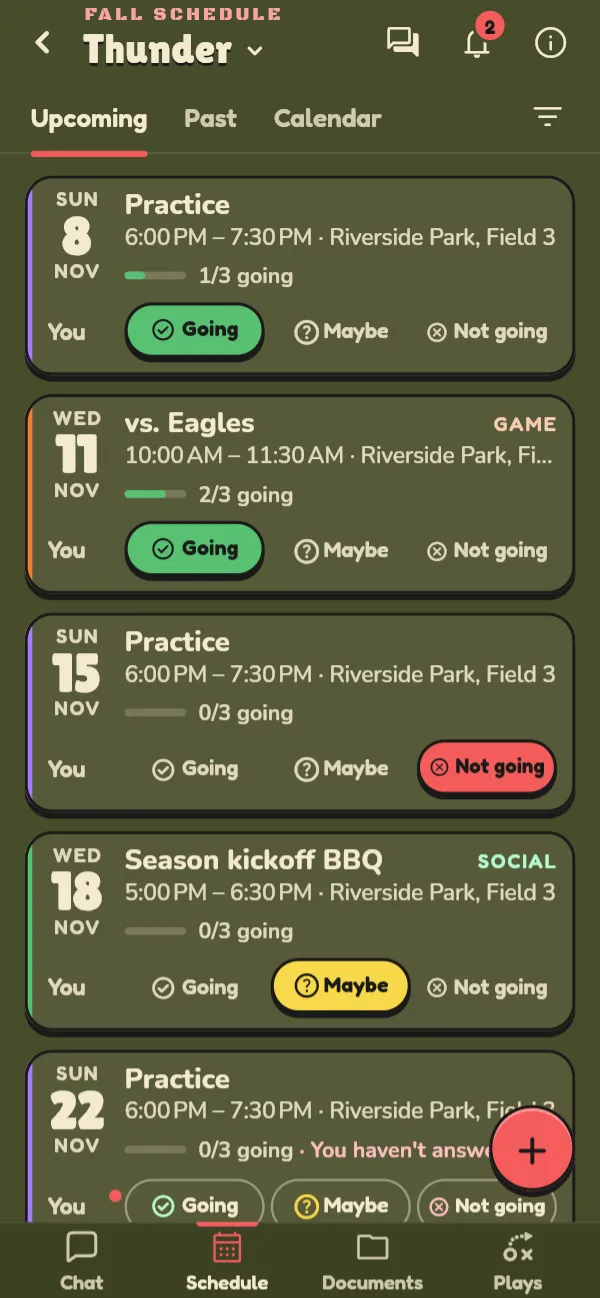
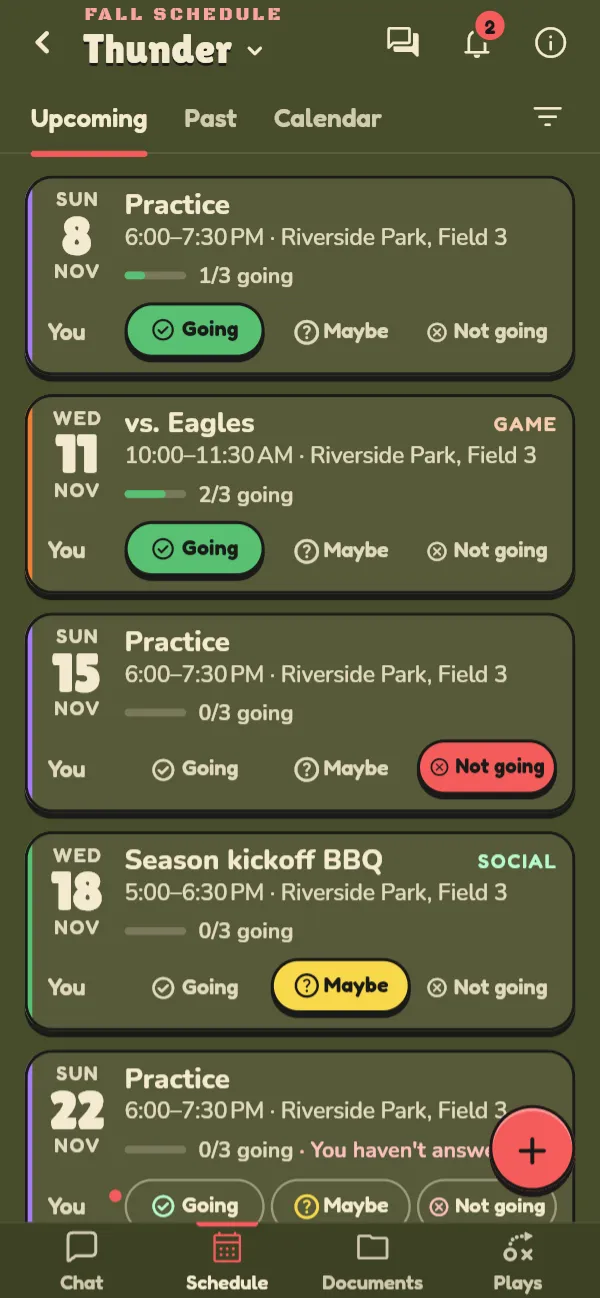
The landing page's screenshots, the link preview image, and the Google Play phone screenshots are retaken from the current app
Every website screenshot is a new capture in Open Field against freshly
seeded emulators: Thunder's schedule in all five schemes, Saturday Run
Club's group chat with only messages and its small photo, the Eagles
game's RSVPs, the tournament poll, documents, All my teams, a guardian's
practice with Luke and Alex on their own rows, both Dues views, and
Thunder's Relay home on the whiteboard. The alt texts and the README's
table say what each one now shows. og.jpg is redrawn from the new
schedule shots with the Stencil Crest and "For Groups and Sports Teams".
The six Play phone screenshots are in Army green, with the run club's
chat first. ROADMAP task 354 is done.

diff --git a/website/index.html b/website/index.html
@@ -227,27 +227,27 @@
           <li class="tile">
             <h3>Group chat</h3>
             <p>Photos, replies, mentions, and pinned announcements.</p>
-            <div class="shot"><div class="phone"><img src="/images/group-chat-navy.webp" width="600" height="1298" loading="lazy" decoding="async" alt="A group's chat in the Navy color scheme: messages from several people and a small photo."><span class="tag" data-s="navy" aria-hidden="true">Navy</span></div></div>
+            <div class="shot"><div class="phone"><img src="/images/group-chat-navy.webp" width="600" height="1298" loading="lazy" decoding="async" alt="Saturday Run Club's group chat in the Navy color scheme: Monica Geller's reply to Phil Dunphy that Rachel is pacing a 10-minute mile, Rachel Green's small photo of a sunrise from the bridge with a like and two hearts, your own message in a coral bubble, marked Sent, and Chandler Bing asking about coffee after."><span class="tag" data-s="navy" aria-hidden="true">Navy</span></div></div>
           </li>
           <li class="tile">
             <h3>Games and RSVPs</h3>
             <p>Going, Maybe, or Not going in one tap.</p>
-            <div class="shot"><div class="phone"><img src="/images/event-skyblue.webp" width="600" height="1298" loading="lazy" decoding="async" alt="Thunder's home game against the Eagles in the Light blue color scheme: the time, the field with directions, reminders, assignments, and who's going: 2 of 3 players, each with who answered."><span class="tag" data-s="skyblue" aria-hidden="true">Light blue</span></div></div>
+            <div class="shot"><div class="phone"><img src="/images/event-skyblue.webp" width="600" height="1298" loading="lazy" decoding="async" alt="Thunder's home game against the Eagles in the Light blue color scheme: the time, the field with directions, reminders, assignments, and who's going: 2 going, 1 maybe, 0 not going, and 0 with no reply, 2 of 3 players going, with Jim and Andy going and Pam a maybe answered by the coach."><span class="tag" data-s="skyblue" aria-hidden="true">Light blue</span></div></div>
           </li>
           <li class="tile">
             <h3>Polls</h3>
             <p>Settle it without forty replies.</p>
-            <div class="shot"><div class="phone"><img src="/images/poll-dark.webp" width="600" height="1298" loading="lazy" decoding="async" alt="A poll in Rally Possums' chat in the Dark color scheme: which tournament weekend works, with the votes for each weekend and the replies under it."><span class="tag" data-s="dark" aria-hidden="true">Dark</span></div></div>
+            <div class="shot"><div class="phone"><img src="/images/poll-dark.webp" width="600" height="1298" loading="lazy" decoding="async" alt="Rachel's poll in Rally Possums' chat in the Dark color scheme: which tournament weekend works for your family, where 4 people voted, 3 for Nov 7–8, 2 for Nov 14–15, and none for Dec 5–6, then replies from Monica and Chandler and Rachel's own message settling on Nov 7–8."><span class="tag" data-s="dark" aria-hidden="true">Dark</span></div></div>
           </li>
           <li class="tile">
             <h3>Documents</h3>
             <p>Lineups, rules, and waivers, one tap away.</p>
-            <div class="shot"><div class="phone"><img src="/images/documents-navy.webp" width="600" height="1298" loading="lazy" decoding="async" alt="Thunder's documents in the Navy color scheme: a pinned lineup and league rules, a practice plan, a link to field directions, and a player waiver."><span class="tag" data-s="navy" aria-hidden="true">Navy</span></div></div>
+            <div class="shot"><div class="phone"><img src="/images/documents-navy.webp" width="600" height="1298" loading="lazy" decoding="async" alt="Thunder's documents in the Navy color scheme: every photo shared in the chat, then a pinned Saturday lineup and league rules, a practice plan, a link to field directions, and a player waiver, each with its size or link, who added it, and when."><span class="tag" data-s="navy" aria-hidden="true">Navy</span></div></div>
           </li>
           <li class="tile">
             <h3>All my teams</h3>
             <p>Every team you're on, in one schedule.</p>
-            <div class="shot"><div class="phone"><img src="/images/allteams-skyblue.webp" width="600" height="1298" loading="lazy" decoding="async" alt="All my teams in the Light blue color scheme: practices and games from Cyclone, Thunder, and Rally Possums in one schedule, with Going, Maybe, and Not going for each player."><span class="tag" data-s="skyblue" aria-hidden="true">Light blue</span></div></div>
+            <div class="shot"><div class="phone"><img src="/images/allteams-skyblue.webp" width="600" height="1298" loading="lazy" decoding="async" alt="All my teams in the Light blue color scheme: practices and games from Cyclone, Thunder, and Rally Possums in one schedule, each card naming its team and who it's for, with a row for each player: Luke going to Cyclone's practice, where Alex hasn't answered yet, Haley going to Rally Possums' game at the Bulls, and no answers yet from Luke or Alex for Cyclone's game against the Comets."><span class="tag" data-s="skyblue" aria-hidden="true">Light blue</span></div></div>
           </li>
           <li class="tile more">
             <h3>And more</h3>
@@ -282,8 +282,8 @@
           </ul>
         </div>
         <div class="spot-media pair">
-          <div class="phone"><img src="/images/dues-army.webp" width="600" height="1298" loading="lazy" decoding="async" alt="A team admin's Dues screen in the Army green color scheme: a tournament fee and uniforms, each with how many have paid and what's still owed, and How to pay with the team's Venmo and Cash App."><span class="tag" data-s="army" aria-hidden="true">Army green</span></div>
-          <div class="phone"><img src="/images/dues-mine-light.webp" width="600" height="1298" loading="lazy" decoding="async" alt="What you owe in the Light color scheme: a guardian's dues for Luke and Alex, each marked Owes or Paid, $90 owed in all, and How to pay with the team's Venmo and Cash App."><span class="tag" data-s="light" aria-hidden="true">Light</span></div>
+          <div class="phone"><img src="/images/dues-army.webp" width="600" height="1298" loading="lazy" decoding="async" alt="A team admin's Dues screen in the Army green color scheme: a $30 tournament fee, 1 of 2 paid with $30 still owed, and $45 uniforms, 2 of 3 paid with $45 still owed, then How to pay with the team's Venmo and Cash App."><span class="tag" data-s="army" aria-hidden="true">Army green</span></div>
+          <div class="phone"><img src="/images/dues-mine-light.webp" width="600" height="1298" loading="lazy" decoding="async" alt="What you owe in the Light color scheme: a guardian's dues for Luke and Alex, $90 owed in all, with Luke's fall league fee and team photos and Alex's team photos marked Owes and Alex's fall league fee marked Paid, then How to pay with the team's Venmo and Cash App."><span class="tag" data-s="light" aria-hidden="true">Light</span></div>
         </div>
       </div>
     </section>
@@ -301,7 +301,7 @@
           </ul>
         </div>
         <div class="spot-media">
-          <div class="phone"><img src="/images/youth-light.webp" width="600" height="1298" loading="lazy" decoding="async" alt="A practice in the Light color scheme, answered by a guardian: Going, Maybe, or Not going for Luke and for Alex, each on their own row, then who's going."><span class="tag" data-s="light" aria-hidden="true">Light</span></div>
+          <div class="phone"><img src="/images/youth-light.webp" width="600" height="1298" loading="lazy" decoding="async" alt="Cyclone's practice in the Light color scheme, answered by a guardian: Luke and Alex each on their own row of Going, Maybe, and Not going, with Luke going and Alex still to answer, then who's going: 1 going, 0 maybe, 1 not going, and 2 with no reply, 1 of 4 players going."><span class="tag" data-s="light" aria-hidden="true">Light</span></div>
         </div>
       </div>
     </section>
@@ -321,7 +321,7 @@
           </ul>
         </div>
         <div class="spot-media">
-          <div class="phone"><img src="/images/whiteboard-army.webp" width="600" height="1298" loading="lazy" decoding="async" alt="The coach's whiteboard in the Army green color scheme: a relay home from right field on a baseball diamond, with the throws drawn in, at step 2 of 2, with a play button, Post to chat, and Save as GIF."><span class="tag" data-s="army" aria-hidden="true">Army green</span></div>
+          <div class="phone"><img src="/images/whiteboard-army.webp" width="600" height="1298" loading="lazy" decoding="async" alt="Thunder's play Relay home on the coach's whiteboard in the Army green color scheme: the throws drawn in on the diamond, from right field to the second baseman as the relay, to the first baseman as the cutoff, and home, at step 2 of 2, with a play button, Post to chat, and Save as GIF."><span class="tag" data-s="army" aria-hidden="true">Army green</span></div>
         </div>
       </div>
     </section>

diff --git a/docs/ROADMAP.md b/docs/ROADMAP.md
@@ -9,7 +9,7 @@ Every task and feature for Battleplan, in one numbered list, in the order they s
 - Feature IDs (AUTH-1, CHAT-6, …) point to SPEC §6. The details live there; this file is the order.
 - Milestones M0 to M8 each ended working on iOS, Android, and web, with rules tests updated (SPEC §9). Go-live then runs in six phases, web first (below). Until Phase 4 the native apps keep building and passing tests, but don't ship.
 
-Last updated: 2026-11-06. The landing page and its link preview image say it's for groups and sports teams, its Team chat tile is now Group chat, and Apple's App Store badge is on the website and the web app's invite page (task 353). Guardians answer for each of their players on that player's own RSVP row, in the app and from an RSVP email; the All my players shortcut is gone (task 358). The Stencil Crest is the new app icon and brand mark (task 356). The website's landing page is redone in Open Field, with a picker for all five color schemes, fewer words, new screenshots, and structured data and `llms.txt` for search and AI (task 351). Dues are built: admins track who owes and who paid for uniforms and fees, and share how to pay person to person (task 350). Open Field, one look in five color schemes, each person's own per team, with team RSVPs for players only and a color for your icon, is being built (tasks 340 to 349): the schemes, both pickers, the header, tab bars, Teams and Profile, the schedule, the event screen, chat, settings and the other screens, players-only RSVPs, and your icon color are done (tasks 340 to 348). Before that, 2026-10-25: Battleplan 1.1, Gumdrop Pop, is built for the web: three themes, team colors in the backgrounds, and the website to match (tasks 292 to 297); it waits for Release to prod (task 298), and iOS 1.1 is held back (task 299). Before that, 2026-10-17: Sign in with Apple is built, and Firebase has Apple's key in dev and prod; prod shows it after the next Release to prod (tasks 107, 109, 291). Before that, 2026-10-15, after checking every open task against the code and the live projects; a few were done and are now checked off (tasks 120 and 199). Since 2026-10-13: release workflows (tasks 230, 231), the owner's changes from trying the app (tasks 232 to 237), and the brand mark (task 238). Before that: The website and web app are live on prod at https://getbattleplan.app (Phase 1 tasks 111, 114 to 118, 121, 134, 187). M5 (Polls), M6 (Schedule), M7 (Documents), and M8 (God admin panel) are built, and the website is live on dev with the web app at /app. The first three v1.1 tasks are built: mentions, pins, and announcements; roster details and contact sharing; and answering for all my players with each player's RSVP history (tasks 135 to 137). Teams are now one type with players on every team, claims, and admin approval (tasks 181 to 186), and coaches can keep player details such as date of birth (tasks 216 to 218). The old M9 and Launch sections are replaced by six go-live phases: the website and web app first, then GDPR, backups, and security, then Sign in with Apple, the App Store, Google Play, and Facebook sign-in, each in its own phase (D60).
+Last updated: 2026-11-06. The landing page's screenshots, its link preview image, and the Play phone screenshots are retaken in Open Field (task 354). The landing page and its link preview image say it's for groups and sports teams, its Team chat tile is now Group chat, and Apple's App Store badge is on the website and the web app's invite page (task 353). Guardians answer for each of their players on that player's own RSVP row, in the app and from an RSVP email; the All my players shortcut is gone (task 358). The Stencil Crest is the new app icon and brand mark (task 356). The website's landing page is redone in Open Field, with a picker for all five color schemes, fewer words, new screenshots, and structured data and `llms.txt` for search and AI (task 351). Dues are built: admins track who owes and who paid for uniforms and fees, and share how to pay person to person (task 350). Open Field, one look in five color schemes, each person's own per team, with team RSVPs for players only and a color for your icon, is being built (tasks 340 to 349): the schemes, both pickers, the header, tab bars, Teams and Profile, the schedule, the event screen, chat, settings and the other screens, players-only RSVPs, and your icon color are done (tasks 340 to 348). Before that, 2026-10-25: Battleplan 1.1, Gumdrop Pop, is built for the web: three themes, team colors in the backgrounds, and the website to match (tasks 292 to 297); it waits for Release to prod (task 298), and iOS 1.1 is held back (task 299). Before that, 2026-10-17: Sign in with Apple is built, and Firebase has Apple's key in dev and prod; prod shows it after the next Release to prod (tasks 107, 109, 291). Before that, 2026-10-15, after checking every open task against the code and the live projects; a few were done and are now checked off (tasks 120 and 199). Since 2026-10-13: release workflows (tasks 230, 231), the owner's changes from trying the app (tasks 232 to 237), and the brand mark (task 238). Before that: The website and web app are live on prod at https://getbattleplan.app (Phase 1 tasks 111, 114 to 118, 121, 134, 187). M5 (Polls), M6 (Schedule), M7 (Documents), and M8 (God admin panel) are built, and the website is live on dev with the web app at /app. The first three v1.1 tasks are built: mentions, pins, and announcements; roster details and contact sharing; and answering for all my players with each player's RSVP history (tasks 135 to 137). Teams are now one type with players on every team, claims, and admin approval (tasks 181 to 186), and coaches can keep player details such as date of birth (tasks 216 to 218). The old M9 and Launch sections are replaced by six go-live phases: the website and web app first, then GDPR, backups, and security, then Sign in with Apple, the App Store, Google Play, and Facebook sign-in, each in its own phase (D60).
 
 ---
 
@@ -325,7 +325,7 @@ The owner's request (2026-10-25): Gumdrop Pop Navy as the default look, named Gu
 298. ✅ 👤 **Jared:** Run **Release to prod** once 1.1 is pushed and CI passes, to put the web app and the website on `getbattleplan.app`. *Run again with each release since, most recently on 2026-11-06.*
 299. ✅ iOS 1.1 follows 1.0's approval (owner's request 2026-10-26: "The latest version of the app should go to iPhone shortly after 1.0 is approved"). *Released on the App Store on 2026-11-05: built by **Release iOS** on 2026-11-04 from `3d84c33`, in Gumdrop Army, with screenshots in Gumdrop Army in `store/app-store/` and the What's New and description in `git show 85053f7:docs/STORE-LISTING.md`. It has none of tasks 340 to 351.*
 352. iOS 1.2: Open Field, icon colors, players-only RSVPs, and Dues (tasks 340 to 351). *Version 1.2.0 in pubspec.yaml since 2026-11-06, since App Store Connect takes no more 1.1.0 builds; [STORE-LISTING.md](STORE-LISTING.md) has 1.2's What's New, the description with Dues, and the Dues review note; the privacy manifest declares Other Financial Info for Dues. Still to do: retake `store/app-store/` in Open Field (STORE-LISTING.md, Screenshots), and give the App Review demo team a sample due (`tools/seed/demo-data.ts`). Then 👤 **Jared:** run **Release iOS**; in App Store Connect add version 1.2, pick the build, paste What's New, the description, and the review notes, replace the screenshots, change App Privacy as [STORE-PRIVACY.md](STORE-PRIVACY.md) says under "Dues: what to change in the consoles", and submit it for review. Once 1.2 is out, take "Dues and the new color schemes come to the iPhone app in its next update" off the landing page's FAQ (its text and its JSON-LD), `support.html`, and `llms.txt`.*
-354. Retake the landing page's screenshots once the app fixes of 2026-11-06 land ([website/README.md](../website/README.md), "Screenshots"), `whiteboard-army.webp` first: it still shows the old sample play, a baseball diamond under Cyclone (a soccer team) with its title cut to "Relay home fro…". The seed now makes it Thunder's play, Relay home (`/g/thunder/plays/thunder-relay-home`).
+354. ✅ Retake the landing page's screenshots once the app fixes of 2026-11-06 land ([website/README.md](../website/README.md), "Screenshots"), `whiteboard-army.webp` first: it still shows the old sample play, a baseball diamond under Cyclone (a soccer team) with its title cut to "Relay home fro…". The seed now makes it Thunder's play, Relay home (`/g/thunder/plays/thunder-relay-home`). *Retaken 2026-11-06 from the app as of the Stencil Crest, each player's own RSVP row, and the group Saturday Run Club, against freshly seeded emulators: all fourteen of the landing page's screenshots (Thunder's schedule as Jim in all five schemes, Saturday Run Club's group chat with only messages and its small photo, the Eagles game's RSVPs, the tournament poll, documents, All my teams, a guardian's practice with Luke and Alex on their own rows, both Dues views, and Thunder's Relay home on the whiteboard, its title in full), with every alt text and the README's table to match; the link-preview image `og.jpg` from the new schedule shots, with the Stencil Crest and "For Groups and Sports Teams"; and the six Google Play phone screenshots in Open Field's Army green, with the run club's chat first ([STORE-LISTING-PLAY.md](STORE-LISTING-PLAY.md)). The App Store set is still task 352's.*
 355. 👤 **Jared:** Tell everyone about the Privacy Policy and Terms update for Dues (2026-11-06): in the Admin panel, turn on **Announcement banner** (Show a banner to everyone) with text such as "We updated our Privacy Policy and Terms for Dues: getbattleplan.app/privacy", severity Info, ending in 30 days (SPEC §6.11, the policy's "Changes to this policy"). Dues collect something new, so the policy promises to say so in the app or by email. The Terms change only spells out that Battleplan isn't part of payments between members and that deleting a team erases its dues; it takes away no one's rights, so it doesn't need the Terms' 14 days.
 
 ## Go-live in six phases
@@ -475,7 +475,7 @@ New fixed cost: the Google Play Console, $25 once.
 212. Verify App Links on prod: `assetlinks.json` on `getbattleplan.app` with the upload and Play App Signing fingerprints, then check `/join/`, `/activate`, `/g/`, and `/app/` open the app on a phone (task 50). *Where each fingerprint comes from is in DEVELOPMENT.md (App Links); the file waits for the upload key and the first Play upload, and `tools/build_hosting.sh` warns until it's there.*
 289. Answer buttons on the Android app's event notifications: Going, Maybe, and Not going, answered in the background (SCHED-14, ARCH §6.15).
 128. 👤 **Jared:** Run the Google Play closed test: 12+ testers opted in for 14 days in a row, then request production access. *Moved from Launch.*
-213. Google Play listing: phone and tablet screenshots, description, the Data safety form (LEGAL-4), the content rating, the target audience (adults), the review demo account, and 👤 **Jared:** EU trader status in the Play Console. *Split from tasks 129 to 132. Drafted 2026-10-25: [STORE-LISTING-PLAY.md](STORE-LISTING-PLAY.md) has the name, short and full descriptions, store settings, and every App content answer (app access, ads, content rating, target audience, Data safety, government, financial, health, account deletion), and `store/google-play/` the 512 px icon and the 1024 × 500 feature graphic. The six phone screenshots (1080 × 1920, Gumdrop Pop Dark) are in `store/google-play/phone/`. Still to do: 👤 pasting it all in.*
+213. Google Play listing: phone and tablet screenshots, description, the Data safety form (LEGAL-4), the content rating, the target audience (adults), the review demo account, and 👤 **Jared:** EU trader status in the Play Console. *Split from tasks 129 to 132. Drafted 2026-10-25: [STORE-LISTING-PLAY.md](STORE-LISTING-PLAY.md) has the name, short and full descriptions, store settings, and every App content answer (app access, ads, content rating, target audience, Data safety, government, financial, health, account deletion), and `store/google-play/` the 512 px icon and the 1024 × 500 feature graphic. The six phone screenshots (1080 × 1920, Open Field's Army green since 2026-11-06, task 354) are in `store/google-play/phone/`. Still to do: 👤 pasting it all in.*
 214. Add the Android build to the prod release workflow, submit to Google Play, enforce Play Integrity in App Check, and turn on the Google Play badge on the website and the `/join` page. *Split from task 133. 2026-10-25: **Release Android** (Actions tab) builds prod and uploads it to internal testing, closed testing, or production as a draft; it needs the Play service account's `PLAY_SERVICE_ACCOUNT_JSON` secret (👤 Jared creates the account). The Android app now leaves out Buy Jared a coffee, like the iPhone app, so Play needs no billing review.*
 
 **Phase 5 is done when** the app is on Google Play. From here on, the parity rule covers all three platforms.

diff --git a/website/README.md b/website/README.md
@@ -84,21 +84,21 @@ The screenshots show the app with the seeded sample teams (Thunder, Cyclone, and
 | Image | Scheme | Signed in as | Screen |
 |---|---|---|---|
 | `schedule-army`, `-light`, `-dark`, `-navy`, `-skyblue` (hero) | all five | `jim@example.com` | Thunder's schedule as a player: their own Going, Maybe, and Not going on the cards and a practice still to answer, the same screen in each scheme |
-| `group-chat-navy` | Navy | a member of the group | A group's chat: messages from several people and a small photo only, with no event cards or polls in view |
-| `event-skyblue` | Light blue | `coach@example.com` | Thunder's game against the Eagles, with the RSVPs |
-| `poll-dark` | Dark | `rachel@example.com` | Rally Possums' tournament poll |
+| `group-chat-navy` | Navy | `coach@example.com` | Saturday Run Club's group chat: messages from several people and Rachel's small photo only, with no event cards or polls in view |
+| `event-skyblue` | Light blue | `coach@example.com` | Thunder's game against the Eagles, with the RSVPs: 2 of 3 players going |
+| `poll-dark` | Dark | `rachel@example.com` | Rally Possums' chat at Rachel's tournament poll, with the replies under it |
 | `documents-navy` | Navy | `coach@example.com` | Thunder's documents |
 | `allteams-skyblue` | Light blue | `claire@example.com` | Cyclone's schedule with **All my teams** on |
-| `youth-light` | Light | `claire@example.com` | Cyclone's practice, answering for Luke and Alex |
+| `youth-light` | Light | `claire@example.com` | Cyclone's practice as a guardian: Luke and Alex each on their own RSVP row, Luke going and Alex still to answer |
 | `dues-army` | Army green | `coach@example.com` | Team info → **Dues**, an admin's view: who's paid and what's owed |
 | `dues-mine-light` | Light | `claire@example.com` | **What you owe** and **How to pay** |
-| `whiteboard-army` | Army green | `coach@example.com` | Plays, the coach's whiteboard |
+| `whiteboard-army` | Army green | `coach@example.com` | Plays: Thunder's Relay home on the coach's whiteboard, at step 2 of 2 |
 
 The current set (Open Field, all five schemes, 2026-11-06, the owner's request) are captures of the real web app against the emulators. To retake them: start the emulators fresh (restart rather than clearing over REST), seed them (DEVELOPMENT.md), and build from a scratch copy with `bannerLabel` in `lib/core/env.dart` returning null (never commit that), with `flutter build web -t lib/main_dev.dart --dart-define=USE_EMULATORS=true --no-web-resources-cdn --base-href /app/` (CanvasKit: headless Chrome doesn't paint the wasm build), plus `tools/fetch_fallback_fonts.dart` into its `fonts/fallback/` for the emoji. Seed and browse in one time zone where it's currently daytime (seed with `TZ=` set and the seed's `America/Chicago` swapped to match in a scratch copy, and `page.emulateTimezone` in Chrome), so message times look normal and cards skip the "your time" line. Serve the build under `/app/` and drive headless Chrome at 390 × 844 with a device scale of 600 / 390: hide `.firebase-emulator-warning`, sign in with the keyboard alone (Tab to Email and to Password, typing in each, then Sign in through the semantics tree: Flutter keeps a mouse's hover where it last clicked, which lights up whatever later sits there), open each screen by its route (`history.pushState` and a `popstate` event, since a reload signs out), and press buttons through the semantics tree (clicking a `flt-semantics[role=button]` element), since synthetic mouse clicks don't reach some of them.
 
 - **Schemes:** after signing in, PATCH `users/<uid>` with `colorScheme` (`army`, `light`, `dark`, `navy`, or `skyblue`) through the emulator's REST API (`Authorization: Bearer owner`, `updateMask.fieldPaths=colorScheme`). The app recolors live, so the five `schedule-*` shots come from one sign-in. Per-team picks (`groupMembers/<groupId>_<uid>.colorScheme`) aren't seeded, so the default applies everywhere.
 - **Schedule:** Jim's account is linked to the player Jim Halpert on Thunder, so every card on that schedule has an answer row; the seed answers Going, Maybe, and Not going and leaves the third practice unanswered. The coach has no player, so the coach's cards only count who's going. Open `/g/thunder/schedule` (Upcoming).
-- **Group chat:** open the seeded group's chat (`/g/<groupId>/chat`) and check that only messages and the small photo are in view: no event cards or polls. Chat opens at the first unread message, so take it first after seeding, or as someone who has read it.
+- **Group chat:** as the coach, open Saturday Run Club's chat (`/g/run-club/chat`) and check that only messages and the small photo are in view: no event cards or polls. Chat opens at the first unread message; the seed has everyone read it all, so it opens at the newest. Then scroll it up about 100 px, with synthetic `wheel` events at the left edge rather than the mouse, so the top edge falls between two messages and the photo shows in full: at 390 wide, Monica's reply comes first, then Rachel's photo, the coach's own message, and Chandler's.
 - **Dues:** open `/g/<team>/info`, then press **Dues** (going there directly leaves the app bar without its back button). The seed's dues are on Thunder and Cyclone.
 - **All my teams:** press **Filter**, the **All my teams** switch, then **Dismiss**.
 - **Whiteboard:** open `/g/thunder/plays/thunder-relay-home`, press **Next step**, and wait about 4 seconds.

diff --git a/docs/STORE-LISTING-PLAY.md b/docs/STORE-LISTING-PLAY.md
@@ -77,7 +77,7 @@ Check the counts after any edit: the short description must stay at 80 character
 |---|---|---|
 | App icon | `store/google-play/icon-512.png` (from `assets/brand/icon.png`) | 512 × 512 PNG, no transparency |
 | Feature graphic | `store/google-play/feature-graphic.png` (source: `feature-graphic.html` beside it, rendered with headless Chrome; the command is at its top) | 1024 × 500 PNG, no transparency |
-| Phone screenshots | `store/google-play/phone/01-chat.jpg` to `06-roster.jpg`: chat, schedule, an event's RSVPs, a play, documents, and roster in Gumdrop Pop Dark, the same screens as the App Store set; they predate Open Field and need retaking in it. Rendered from the app's widgets on sample data at 360 × 640 logical pixels × 3 (as website/README.md describes for the site's screenshots), with no device frame or status bar | 1080 × 1920 JPEG, 9:16 |
+| Phone screenshots | `store/google-play/phone/01-chat.jpg` to `06-roster.jpg`, in Open Field's Army green (the default), retaken 2026-11-06: the group Saturday Run Club's chat (only messages and a small photo, no events), Thunder's schedule, its game against the Eagles with the RSVPs, its relay play on the whiteboard, its documents, and Cyclone's roster, the same screens as the App Store set. Captures of the web app against the emulators with the seed and `store-shots.ts` (the coach lands in the run club's chat), signed in as `coach@example.com`, as website/README.md describes for the site's screenshots, at 396 × 704 logical pixels with a device scale of 30 / 11 (at 360 wide the header cuts the group's name short), saved as JPEG at quality 90, with no device frame or status bar | 1080 × 1920 JPEG, 9:16 |
 | Tablet screenshots | Optional (7-inch and 10-inch) | |
 
 ## Store settings

diff --git a/docs/STORE-CHECKLIST.md b/docs/STORE-CHECKLIST.md
@@ -41,7 +41,7 @@ Required, and doable now.
   - device tokens, crash reports, and usage analytics.
 
   The rest: no tracking, no ads, nothing sold.
-- ⬜ 1.16 **The listing, ready to paste in:** *App Store text and iPhone and iPad screenshots done 2026-10-17 ([STORE-LISTING.md](STORE-LISTING.md), `store/app-store/`). Google Play text, the 512 px icon, and the 1024 × 500 feature graphic done 2026-10-25 ([STORE-LISTING-PLAY.md](STORE-LISTING-PLAY.md), `store/google-play/`), and the six Android phone screenshots on 2026-10-25 too (`store/google-play/phone/`).*
+- ⬜ 1.16 **The listing, ready to paste in:** *App Store text and iPhone and iPad screenshots done 2026-10-17 ([STORE-LISTING.md](STORE-LISTING.md), `store/app-store/`). Google Play text, the 512 px icon, and the 1024 × 500 feature graphic done 2026-10-25 ([STORE-LISTING-PLAY.md](STORE-LISTING-PLAY.md), `store/google-play/`), and the six Android phone screenshots on 2026-10-25 too (`store/google-play/phone/`), retaken in Open Field's Army green on 2026-11-06 with the group chat as Saturday Run Club's.*
   - name, subtitle or short description, and description;
   - screenshots of the app in use, not the sign-in screen: 6.9-inch iPhone, 13-inch iPad, and Android phone;
   - a 1024 × 500 feature graphic for Google (`store/google-play/feature-graphic.png`); the 512 px icon is `store/google-play/icon-512.png`.
